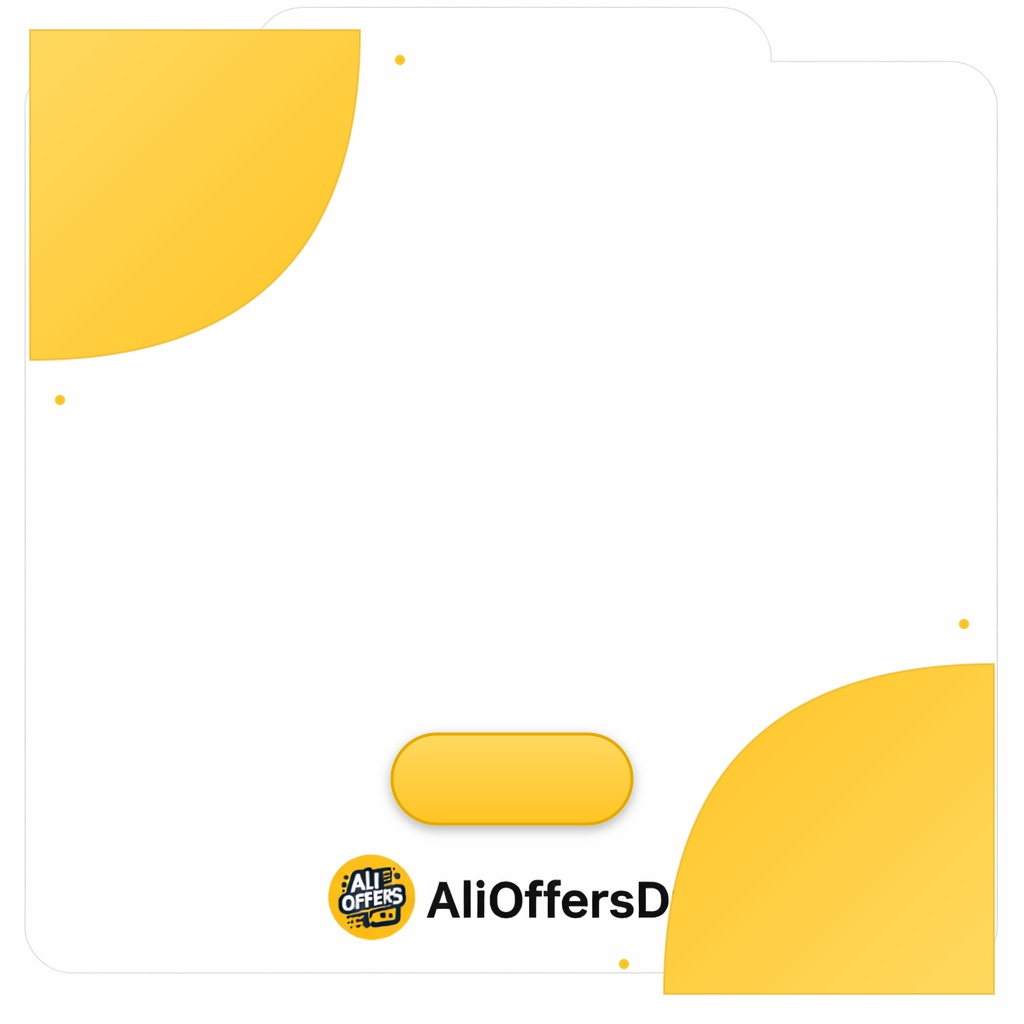
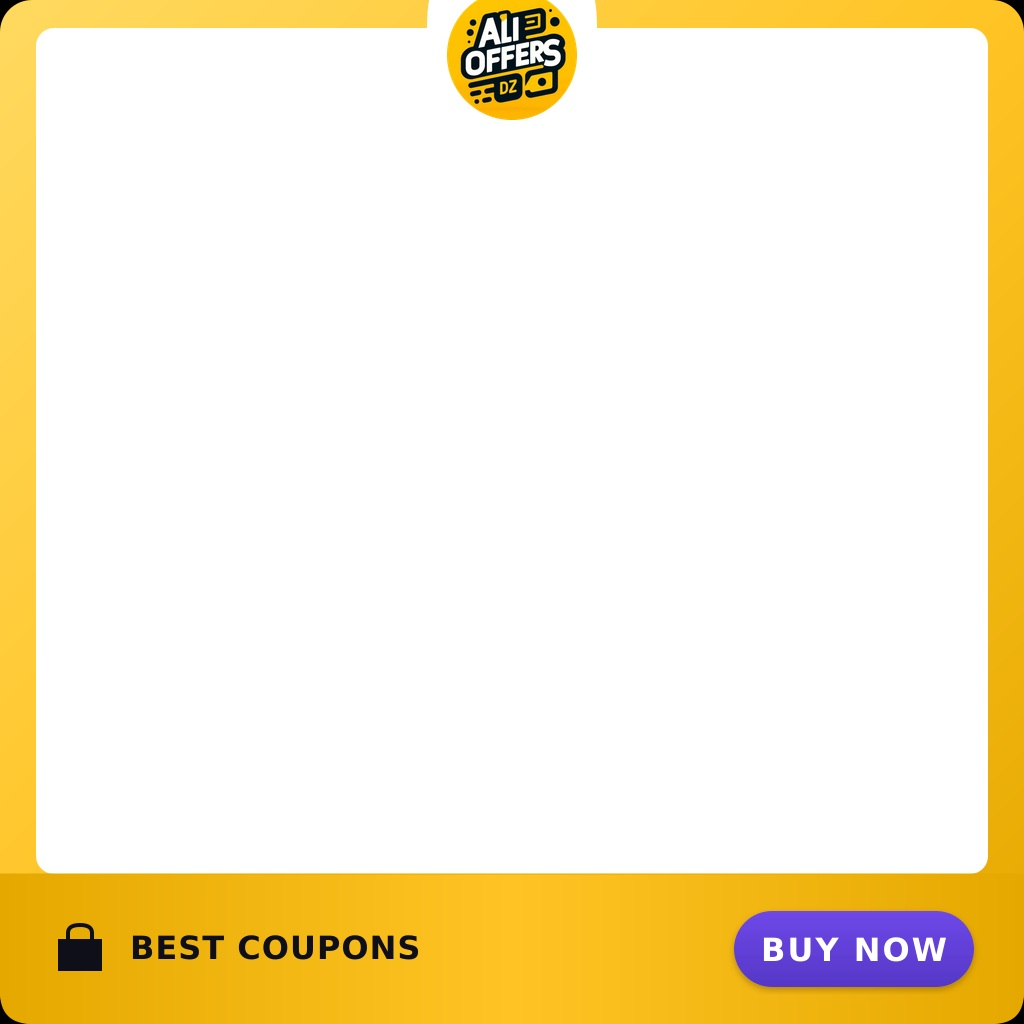
Update frame design with new top and bottom elements
Refactor `scripts/build-frame.js` to implement a new frame layout with a gradient border, a top logo tab, and a bottom buy bar.

Replit-Commit-Author: Agent
Replit-Commit-Session-Id: a89dbef6-46b1-4384-9ed6-a8899594a70d
Replit-Commit-Checkpoint-Type: full_checkpoint
Replit-Commit-Event-Id: b71d9ff8-45a1-4b0d-8950-419c6b90085f
Replit-Commit-Screenshot-Url: https://storage.googleapis.com/screenshot-production-us-central1/1842d263-0a1c-4a9c-a11e-cf92325f49a5/a89dbef6-46b1-4384-9ed6-a8899594a70d/5umDN2J
Replit-Helium-Checkpoint-Created: true

diff --git a/scripts/build-frame.js b/scripts/build-frame.js
@@ -1,114 +1,159 @@
-// إطار أنيق نهائي: قالب أبيض + منحنيات ربعية صفراء + بطاقة سعر صغيرة فوق الشعار
+// إطار AliOffersDz: حدود صفراء متدرّجة + تبويبة شعار علوية + شريط شراء سفلي
 const sharp = require('sharp');
 const path = require('path');
 const fs = require('fs');
 
-const TEMPLATE = path.join(__dirname, '..', 'public', 'base_frame_template.png');
+const SIZE = 1024;
 const YELLOW = '#FFC424';
 const YELLOW_LIGHT = '#FFD960';
 const YELLOW_DARK = '#E5A800';
 const BLACK = '#0F0F1A';
+const PURPLE = '#6E48E8';
+const PURPLE_DARK = '#5538C7';
+
+// أبعاد الإطار
+const BORDER_TOP = 28;
+const BORDER_SIDE = 36;
+const BUY_BAR_H = 150;       // ارتفاع الشريط السفلي
+const RADIUS = 32;            // نصف قطر الزوايا الخارجية
+const INNER_RADIUS = 18;      // نصف قطر زوايا المساحة البيضاء
+const TAB_W = 170;             // عرض تبويبة الشعار
+const TAB_H = 70;              // ارتفاع التبويبة (تنزل في المساحة البيضاء)
+const LOGO_SIZE = 130;         // قطر شعار البوت
+
+const innerX = BORDER_SIDE;
+const innerY = BORDER_TOP;
+const innerW = SIZE - BORDER_SIDE * 2;
+const innerH = SIZE - BORDER_TOP - BUY_BAR_H;
+const tabX = (SIZE - TAB_W) / 2;
+const logoX = (SIZE - LOGO_SIZE) / 2;
+const logoY = -10;             // الشعار يبرز فوق حافة الإطار
 
 (async () => {
-  const tplMeta = await sharp(TEMPLATE).metadata();
-  const SIZE = tplMeta.width;
-  console.log(`📐 حجم القالب: ${SIZE}x${tplMeta.height}`);
+  // ░░░ تحميل الشعار ░░░
+  const logoPath = path.join(__dirname, '..', 'public', 'logo.png');
+  const logoBuf = await sharp(logoPath).resize(LOGO_SIZE, LOGO_SIZE, { fit: 'cover' }).png().toBuffer();
 
-  // بطاقة السعر: أصغر، فوق شعار AliOffersDz
-  const PRICE_W = 240;
-  const PRICE_H = 90;
-  const PRICE_X = (SIZE - PRICE_W) / 2;
-  const PRICE_Y = SIZE - 290;  // مسافة كافية فوق الشعار
-
-  const overlaySvg = `
+  // ░░░ بناء SVG للإطار ░░░
+  const frameSvg = `
 <svg width="${SIZE}" height="${SIZE}" xmlns="http://www.w3.org/2000/svg">
   <defs>
-    <linearGradient id="gradTL" x1="0%" y1="0%" x2="100%" y2="100%">
+    <linearGradient id="gradFrame" x1="0%" y1="0%" x2="100%" y2="100%">
       <stop offset="0%" stop-color="${YELLOW_LIGHT}"/>
-      <stop offset="100%" stop-color="${YELLOW}"/>
+      <stop offset="50%" stop-color="${YELLOW}"/>
+      <stop offset="100%" stop-color="${YELLOW_DARK}"/>
     </linearGradient>
-    <linearGradient id="gradBR" x1="100%" y1="100%" x2="0%" y2="0%">
-      <stop offset="0%" stop-color="${YELLOW_LIGHT}"/>
-      <stop offset="100%" stop-color="${YELLOW}"/>
+    <linearGradient id="gradBuyBar" x1="0%" y1="0%" x2="100%" y2="0%">
+      <stop offset="0%" stop-color="${YELLOW_DARK}"/>
+      <stop offset="50%" stop-color="${YELLOW}"/>
+      <stop offset="100%" stop-color="${YELLOW_DARK}"/>
     </linearGradient>
-    <linearGradient id="gradPrice" x1="0%" y1="0%" x2="0%" y2="100%">
-      <stop offset="0%" stop-color="${YELLOW_LIGHT}"/>
-      <stop offset="100%" stop-color="${YELLOW}"/>
+    <linearGradient id="gradPurple" x1="0%" y1="0%" x2="0%" y2="100%">
+      <stop offset="0%" stop-color="${PURPLE}"/>
+      <stop offset="100%" stop-color="${PURPLE_DARK}"/>
     </linearGradient>
-    <filter id="cardShadow" x="-20%" y="-20%" width="140%" height="160%">
-      <feGaussianBlur in="SourceAlpha" stdDeviation="6"/>
-      <feOffset dx="0" dy="4" result="offsetblur"/>
-      <feComponentTransfer><feFuncA type="linear" slope="0.3"/></feComponentTransfer>
+    <filter id="softShadow" x="-10%" y="-10%" width="120%" height="120%">
+      <feGaussianBlur in="SourceAlpha" stdDeviation="3"/>
+      <feOffset dx="0" dy="3"/>
+      <feComponentTransfer><feFuncA type="linear" slope="0.25"/></feComponentTransfer>
       <feMerge><feMergeNode/><feMergeNode in="SourceGraphic"/></feMerge>
     </filter>
   </defs>
 
-  <!-- ░░░ منحنى ربعي علوي يسار (نظيف ومنحني) ░░░ -->
-  <path d="M 30 30 H 360 Q 360 360 30 360 Z" fill="url(#gradTL)"/>
-  <path d="M 30 30 H 360 Q 360 360 30 360 Z" fill="none" stroke="${YELLOW_DARK}" stroke-width="2" opacity="0.5"/>
+  <!-- ░ الخلفية الصفراء الكاملة (الإطار الخارجي) ░ -->
+  <rect x="0" y="0" width="${SIZE}" height="${SIZE}" rx="${RADIUS}" fill="url(#gradFrame)"/>
 
-  <!-- ░░░ منحنى ربعي سفلي يمين (مرآة) ░░░ -->
-  <path d="M ${SIZE-30} ${SIZE-30} H ${SIZE-360} Q ${SIZE-360} ${SIZE-360} ${SIZE-30} ${SIZE-360} Z" fill="url(#gradBR)"/>
-  <path d="M ${SIZE-30} ${SIZE-30} H ${SIZE-360} Q ${SIZE-360} ${SIZE-360} ${SIZE-30} ${SIZE-360} Z" fill="none" stroke="${YELLOW_DARK}" stroke-width="2" opacity="0.5"/>
+  <!-- ░ المساحة البيضاء الداخلية (للمنتج) ░ -->
+  <rect x="${innerX}" y="${innerY}" width="${innerW}" height="${innerH}"
+        rx="${INNER_RADIUS}" fill="#FFFFFF"/>
 
-  <!-- نقاط زخرفية خفيفة -->
-  <circle cx="400" cy="60" r="5" fill="${YELLOW}"/>
-  <circle cx="60" cy="400" r="5" fill="${YELLOW}"/>
-  <circle cx="${SIZE-400}" cy="${SIZE-60}" r="5" fill="${YELLOW}"/>
-  <circle cx="${SIZE-60}" cy="${SIZE-400}" r="5" fill="${YELLOW}"/>
+  <!-- ░ تبويبة الشعار العلوية: امتداد بيضاوي يخرج من المساحة البيضاء للأعلى ░ -->
+  <path d="M ${tabX} ${innerY}
+           Q ${tabX} ${innerY - TAB_H} ${tabX + TAB_W/2 - 50} ${innerY - TAB_H/2}
+           Q ${tabX + TAB_W/2} ${innerY - TAB_H - 18} ${tabX + TAB_W/2 + 50} ${innerY - TAB_H/2}
+           Q ${tabX + TAB_W} ${innerY - TAB_H} ${tabX + TAB_W} ${innerY}
+           Z" fill="#FFFFFF"/>
 
-  <!-- ░░░ بطاقة السعر الصغيرة الأنيقة ░░░ -->
-  <g filter="url(#cardShadow)">
-    <rect x="${PRICE_X}" y="${PRICE_Y}" width="${PRICE_W}" height="${PRICE_H}" rx="${PRICE_H/2}"
-          fill="url(#gradPrice)" stroke="${YELLOW_DARK}" stroke-width="3"/>
+  <!-- ░ الشريط السفلي (شريط الشراء) ░ -->
+  <path d="M 0 ${SIZE - BUY_BAR_H}
+           L ${SIZE} ${SIZE - BUY_BAR_H}
+           L ${SIZE} ${SIZE - RADIUS}
+           Q ${SIZE} ${SIZE} ${SIZE - RADIUS} ${SIZE}
+           L ${RADIUS} ${SIZE}
+           Q 0 ${SIZE} 0 ${SIZE - RADIUS}
+           Z" fill="url(#gradBuyBar)"/>
+
+  <!-- ░ خط فاصل أنيق فوق شريط الشراء ░ -->
+  <line x1="0" y1="${SIZE - BUY_BAR_H}" x2="${SIZE}" y2="${SIZE - BUY_BAR_H}"
+        stroke="${YELLOW_DARK}" stroke-width="2" opacity="0.5"/>
+
+  <!-- ░ "BEST COUPONS" يسار + أيقونة حقيبة ░ -->
+  <g transform="translate(50, ${SIZE - BUY_BAR_H/2})">
+    <!-- أيقونة حقيبة تسوق -->
+    <g transform="translate(0, -28)">
+      <path d="M 8 18 L 8 50 L 52 50 L 52 18 Z" fill="${BLACK}"/>
+      <path d="M 18 18 L 18 12 Q 18 4 30 4 Q 42 4 42 12 L 42 18"
+            stroke="${BLACK}" stroke-width="4" fill="none"/>
+    </g>
+    <text x="80" y="10" font-family="Arial Black, sans-serif" font-size="32"
+          font-weight="900" fill="${BLACK}" letter-spacing="1">BEST COUPONS</text>
+  </g>
+
+  <!-- ░ زر "BUY NOW" بنفسجي يمين ░ -->
+  <g filter="url(#softShadow)" transform="translate(${SIZE - 290}, ${SIZE - BUY_BAR_H/2 - 38})">
+    <rect x="0" y="0" width="240" height="76" rx="38" fill="url(#gradPurple)"/>
+    <text x="120" y="50" font-family="Arial Black, sans-serif" font-size="32"
+          font-weight="900" fill="#FFFFFF" text-anchor="middle" letter-spacing="2">BUY NOW</text>
   </g>
 </svg>`;
 
-  const baseBuf = await sharp(TEMPLATE).png().toBuffer();
-  const overlayBuf = await sharp(Buffer.from(overlaySvg)).png().toBuffer();
+  const baseBuf = await sharp(Buffer.from(frameSvg)).png().toBuffer();
 
-  const composedBuf = await sharp(baseBuf)
-    .composite([{ input: overlayBuf, left: 0, top: 0, blend: 'over' }])
+  // تركيب الشعار في التبويبة العلوية
+  const composed = await sharp(baseBuf)
+    .composite([{ input: logoBuf, left: logoX, top: logoY }])
     .jpeg({ quality: 94, background: { r: 255, g: 255, b: 255 } })
     .toBuffer();
 
   const outPath = path.join(__dirname, '..', 'public', 'custom_frame.jpg');
-  fs.writeFileSync(outPath, composedBuf);
-  console.log('✅ Built clean frame with elegant quarter-curves + small price pill');
+  fs.writeFileSync(outPath, composed);
+  console.log('✅ Built new frame: yellow border + top logo tab + bottom buy bar');
 
-  // ░░░ معاينة ░░░
+  // ═══════════════ معاينة مع منتج وسعر ═══════════════
   const { overlayPrice } = require(path.join(__dirname, '..', 'imageProcessor.js'));
 
-  const productSvg = `<svg width="700" height="500" xmlns="http://www.w3.org/2000/svg">
-    <circle cx="350" cy="250" r="200" fill="#1F2937"/>
-    <text x="350" y="240" font-family="Arial Black" font-size="50" font-weight="900" fill="white" text-anchor="middle">PRODUCT</text>
-    <text x="350" y="290" font-family="Arial" font-size="24" fill="#9CA3AF" text-anchor="middle">(transparent)</text>
+  const productSvg = `<svg width="700" height="600" xmlns="http://www.w3.org/2000/svg">
+    <circle cx="350" cy="300" r="240" fill="#1F2937"/>
+    <text x="350" y="290" font-family="Arial Black" font-size="56" font-weight="900" fill="white" text-anchor="middle">PRODUCT</text>
+    <text x="350" y="350" font-family="Arial" font-size="26" fill="#9CA3AF" text-anchor="middle">(transparent)</text>
   </svg>`;
   const productBuf = await sharp(Buffer.from(productSvg)).png().toBuffer();
 
-  // المنتج: 12% top, 55% tall (يتوقّف قبل بطاقة السعر)
-  const innerLeft = Math.round(SIZE * 0.10);
-  const innerTop = Math.round(SIZE * 0.10);
-  const innerW = Math.round(SIZE * 0.80);
-  const innerH = Math.round(SIZE * 0.55);
-  const resizedProduct = await sharp(productBuf).resize(innerW, innerH, { fit: 'inside' }).toBuffer();
-  const meta = await sharp(resizedProduct).metadata();
-  const offX = innerLeft + Math.round((innerW - meta.width) / 2);
-  const offY = innerTop + Math.round((innerH - meta.height) / 2);
+  // منطقة المنتج: داخل المساحة البيضاء، تحت تبويبة الشعار
+  // يبدأ عند y ≈ 130 (تحت اللوقو) وينتهي قبل شريط الشراء
+  const PADX = 70;
+  const prodLeft = innerX + PADX;
+  const prodTop = innerY + 130;
+  const prodW = innerW - PADX * 2;
+  const prodH = (SIZE - BUY_BAR_H) - prodTop - 20;
+
+  const resized = await sharp(productBuf).resize(prodW, prodH, { fit: 'inside' }).toBuffer();
+  const m = await sharp(resized).metadata();
+  const offX = prodLeft + Math.round((prodW - m.width) / 2);
+  const offY = prodTop + Math.round((prodH - m.height) / 2);
 
   let preview = await sharp(outPath)
-    .composite([{ input: resizedProduct, left: offX, top: offY, blend: 'over' }])
+    .composite([{ input: resized, left: offX, top: offY, blend: 'over' }])
     .jpeg({ quality: 92 })
     .toBuffer();
 
-  // السعر داخل البطاقة الصغيرة (مركز البطاقة)
-  // البطاقة 240x90 — السعر بحجم 56 يتمركز
+  // السعر بخط يدوي في أعلى-يمين المساحة البيضاء (بعيد عن اللوقو وسط)
   preview = await overlayPrice(preview, '16.5', {
-    x: PRICE_X + 50,
-    y: PRICE_Y + 8,
-    fontSize: 60,
+    x: SIZE - 280,
+    y: 50,
+    fontSize: 70,
     color: BLACK,
-    accent: '#E63946'
+    accent: '#E63946',
   });
 
   await sharp(preview).jpeg({ quality: 92 }).toFile(path.join(__dirname, '..', 'public', 'preview_yellow.jpg'));

diff --git a/spy.js b/spy.js
@@ -466,11 +466,12 @@ async function applyFrameToImage(productImage, imageUrl, watermark, opts = {}) {
 
     const meta = await sharp(useFramePath).metadata();
     const fW = meta.width, fH = meta.height;
-    // Geometry: المنتج يحتل المنطقة العلوية، السعر بالأسفل في بطاقة صغيرة
-    const innerLeft = Math.round(fW * 0.10);
-    const innerTop = Math.round(fH * 0.10);
-    const innerW = Math.round(fW * 0.80);
-    const innerH = Math.round(fH * 0.55);
+    // Geometry: المنتج داخل المساحة البيضاء، تحت تبويبة الشعار وفوق شريط الشراء
+    // إطار 1024px: حدود 36 جانبي + 28 علوي + شريط سفلي 150، تبويبة شعار حتى y=130
+    const innerLeft = Math.round(fW * (106 / 1024));   // 36 + 70 padding
+    const innerTop = Math.round(fH * (158 / 1024));    // 28 + 130 (تحت اللوقو)
+    const innerW = Math.round(fW * (812 / 1024));      // 1024 - 2*106
+    const innerH = Math.round(fH * (676 / 1024));      // (1024-150) - 158 - 20
 
     // إزالة خلفية المنتج إذا مفعّلة
     let productBuf = buffer;
@@ -532,13 +533,10 @@ async function applyFrameToImage(productImage, imageUrl, watermark, opts = {}) {
       let price = opts.price || null;
       if (!price && opts.postText) price = extractPrice(opts.postText);
       if (price) {
-        // السعر داخل البطاقة الصغيرة بالأسفل (240x90 فوق الشعار)
-        const PRICE_W = 240;
-        const PRICE_X = Math.round((fW - PRICE_W) / 2);
-        const PRICE_Y = fH - 290;
-        const priceFontSize = 60;
-        const priceX = PRICE_X + 50;
-        const priceY = PRICE_Y + 8;
+        // السعر بخط يدوي في أعلى-يمين المساحة البيضاء (بعيد عن لوقو الوسط)
+        const priceFontSize = Math.round(fH * (70 / 1024));
+        const priceX = fW - Math.round(fW * (280 / 1024));
+        const priceY = Math.round(fH * (50 / 1024));
         result = await overlayPrice(result, String(price).replace(',', '.'), {
           x: priceX, y: priceY, fontSize: priceFontSize
         });